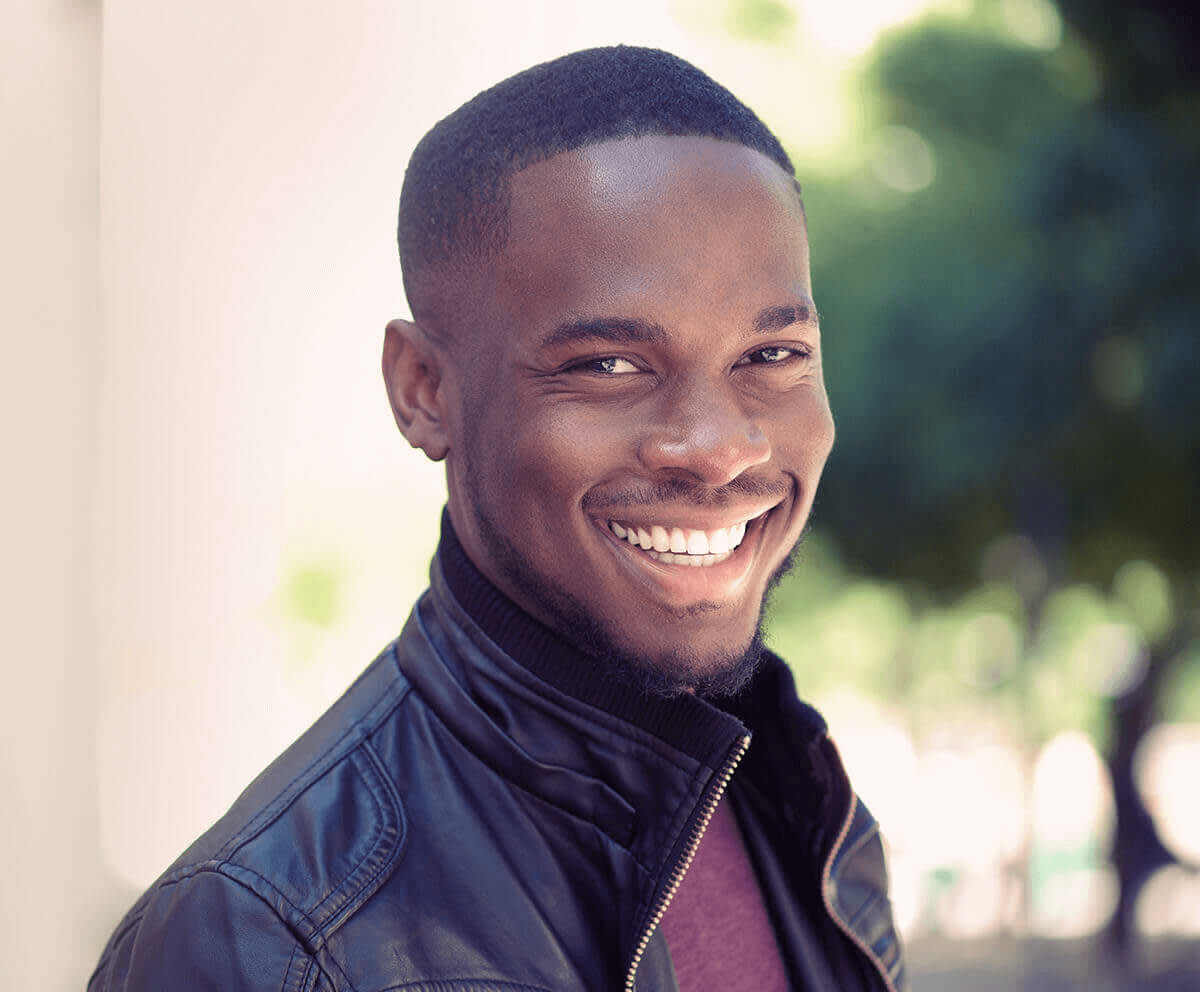
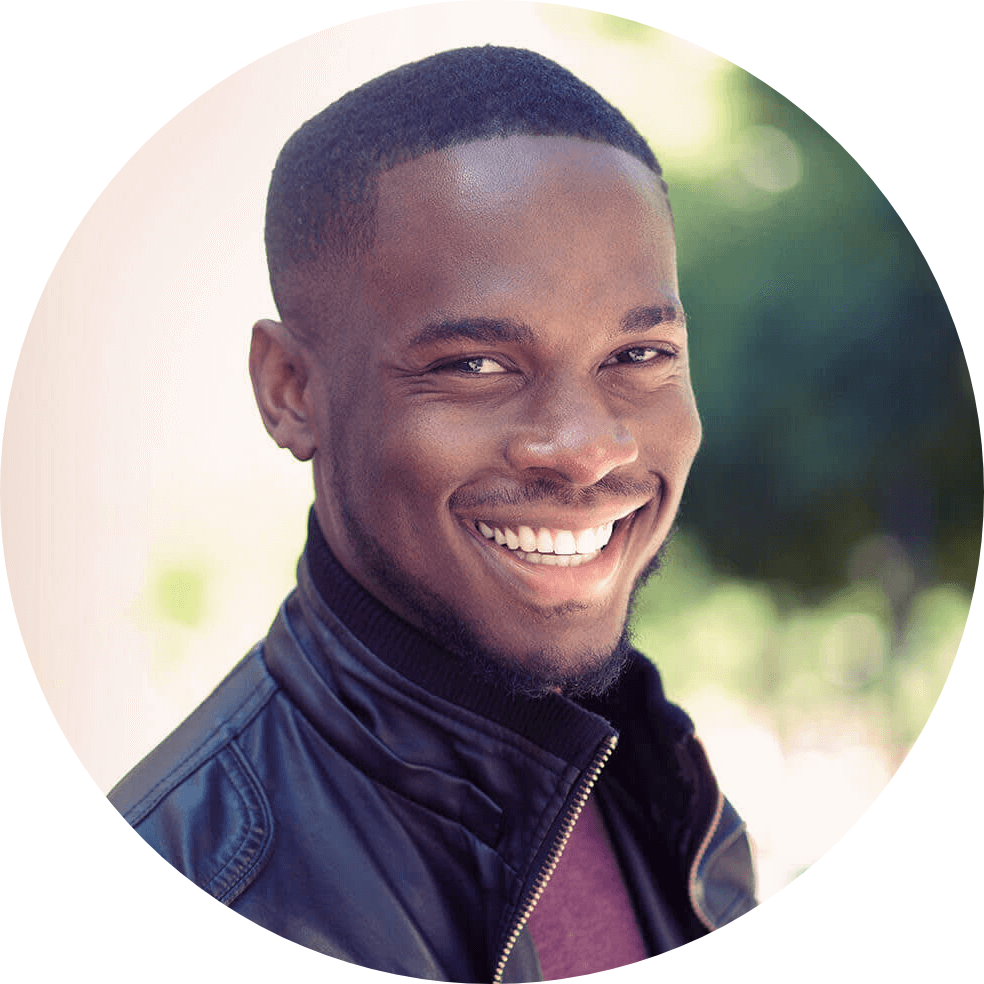
Updated

diff --git a/src/app/Components/Profile/Hero.tsx b/src/app/Components/Profile/Hero.tsx
@@ -8,16 +8,20 @@ function Hero() {
             <section id="banner-section" className="bg-[#F4F4F4] pt-[4rem] pb-[1.7rem]">
                 <div className="container">
                     <div className="flex items-center gap-6">
-                        <div className="profile">
-                            <Image src={profileImg} className="w-[120px] h-[120px] rounded-full" alt="profileImg"/>
+                        <div>
+                            <Image
+                                src={profileImg}
+                                alt="profileImg"
+                                className="rounded-full w-[240px] lg:w-[120px]"
+                            />
                         </div>
                         <div className="content">
-                            <h1 className="text-2xl md:text-[38px] leading-0 md:leading-10 text-prgcolor font-bold md:font-medium mb-4">
+                            <h1 className="text-2xl md:text-[38px] leading-0 md:leading-10 text-prgcolor font-bold md:font-medium mb-4 md:mb-3">
                                 Jane Doe
                             </h1>
-                            <p>
+                            <h4 className="text-[16px] text-graycolor">
                                 Professeure à la French American International School.
-                            </p>
+                            </h4>
                         </div>
                     </div>
                 </div>

diff --git a/src/app/Components/Profile/Biographie.tsx b/src/app/Components/Profile/Biographie.tsx
@@ -350,7 +350,7 @@ function Biographie() {
                     </div>
 
                     {/*Pagination*/}
-                    <div className="mt-10 flex justify-center items-center">
+                    <div className="mt-24 lg:mt-10 flex justify-center items-center">
                         <div
                             className="bg-white w-[350px] flex items-center justify-center border border-bordercolor rounded text-[14px] text-prgcolor">
                             {/* Left Arrows */}

diff --git a/src/app/Components/Maternelle/Books.tsx b/src/app/Components/Maternelle/Books.tsx
@@ -896,7 +896,7 @@ function Books() {
                     </div>
 
                     {/*Pagination*/}
-                    <div className="mt-10 flex justify-center items-center">
+                    <div className="mt-24 lg:mt-10 flex justify-center items-center">
                         <div
                             className="bg-white w-[350px] flex items-center justify-center border border-bordercolor rounded text-[14px] text-prgcolor">
                             {/* Left Arrows */}
